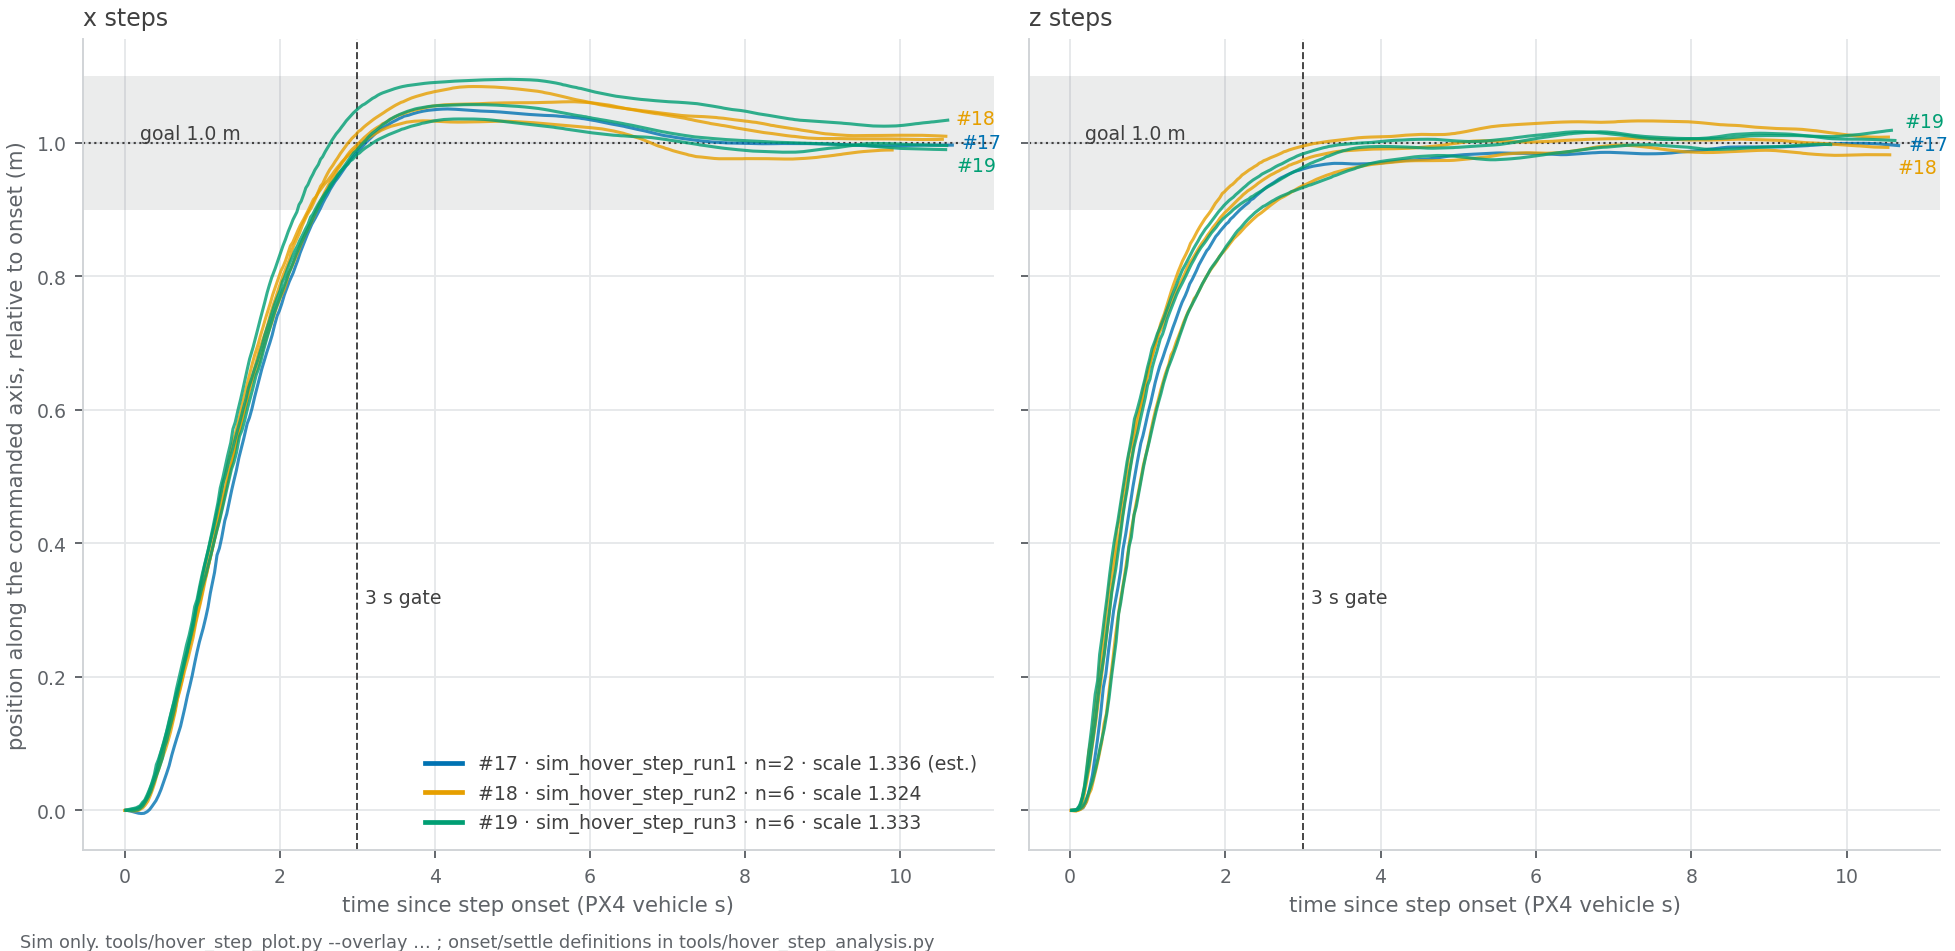
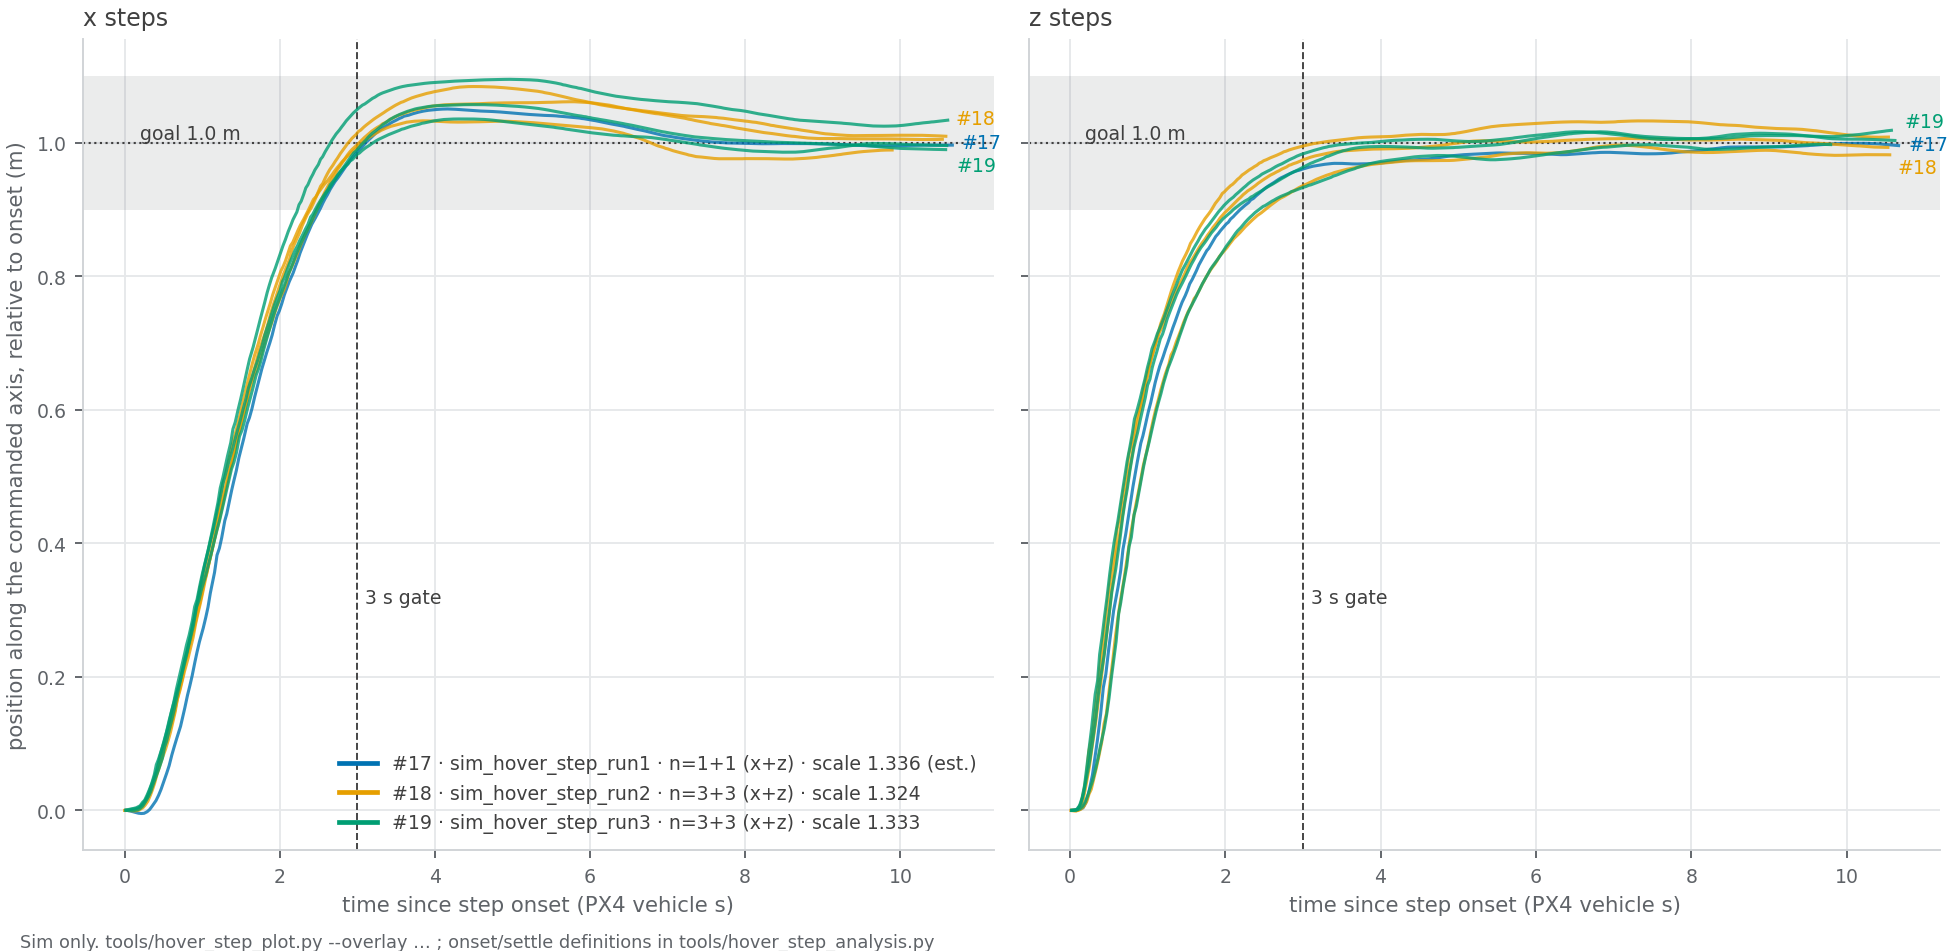
docs: final-review fixes — LEDGER Fix-1 bullets under table 1 (+NEAR-826), kill test → NEAR-823, RUNBOOK step 8 hover/disarm cue, _ours configs in both hazard boxes, TROUBLESHOOTING/RUNBOOK/PX4 audit pointers, overlay legend n per axis

Changed region(s): [[0.1872, 0.7928, 0.468, 0.8843], [0.468, 0.7928, 0.4992, 0.8233]]

diff --git a/tools/hover_step_plot.py b/tools/hover_step_plot.py
@@ -244,7 +244,7 @@ def overlay(runs, scales: dict[str, float], labels: dict[str, str], out: pathlib
         for axis, item in last.items():                  # one direct label per run per axis (its last step's last sample)
             ends.setdefault(axis, []).append(item)
         est = " (est.)" if name in estimated else ""
-        text = f"{label} · {name} · n={len(evs)} · scale {scales[name]:.3f}{est}"
+        text = f"{label} · {name} · n={"+".join(str(sum(1 for ax, _ in evs if ax == k)) for k in "xz")} (x+z) · scale {scales[name]:.3f}{est}"
         handles.append(plt.Line2D([], [], color=colour, lw=2, label=text))
     fig.canvas.draw()                                    # axes size is final: place the direct labels, then spread them apart
     for axis, items in ends.items():                     # one label per run at its last sample, >= LABEL_GAP_PT apart

diff --git a/docs/record/LEDGER.md b/docs/record/LEDGER.md
@@ -30,6 +30,22 @@ RECORD · SIM + REAL — append-only test ledger. Rows are never rewritten or dr
 
 Notes: the Fix 1 detail (the landing path as it is now — `land_settle_s`, `SwarmCommander.landing_done()`, the disarm retry `land_disarm_step()` with `land_disarm_retry_s` 1 s × `land_disarm_retries` 5; sim closed by #13; the real `_ours` configs set `land_settle_s` 0.0 and the retry is inert there because `px4_interface.disarm()` returns true on send; re-observe at NEAR-826 and confirm DISARMED in QGC, iron rule 2) is copied from the old MILESTONES.md "Sim debt" section as the three bullets below this line.
 
+- `land_settle_s` (live parameter; `SwarmCommander.landing_done()`): after z ≤
+  `land_complete_altitude_m` the drone stays LANDING and keeps commanding the descent for the
+  settle time, then DISARM → IDLE; a bounce restarts the timer. Trigger: in sim the instant
+  disarm was DENIED and the offboard timeout left all three drones armed in failsafe hover
+  (#5). Unit tests `test/test_landing_settle.py`.
+- Disarm retry (2026-10-20, `SwarmCommander.land_disarm_step()`): a rejected DISARM is resent
+  every `land_disarm_retry_s` (1 s) up to `land_disarm_retries` (5) times while the descent is
+  still commanded (#8: settle alone was accepted on 1 of 3). The sim refusals came from
+  PX4's land detector seeing the body rock on the floor (#9) → sim airframe
+  `LNDMC_ROT_MAX` 300. Closed in sim by #13 (DISARM accepted first time ×3).
+- **Real drones:** the `_ours` configs set `land_settle_s: 0.0`, so the landing is the one flown
+  2026-09-03; CMU's shipped real configs lack the key and inherit 2.0 → fly the `_ours` files.
+  The retry is inert on real: `px4_interface.disarm()` returns true on send, and a normal
+  disarm (no force code) is refused by PX4 unless landed — nothing can drop a flying drone.
+  Re-observe at M3 (NEAR-826) (landing sub-test) and confirm DISARMED in QGC (iron rule 2).
+
 ## Table 2 · Observed on the previous software (archived)
 
 Branch `archive/airstack-starling-max2` (`daniel/diffaero_ground_control`), 2026-07-20 → 2026-09-03. The archive's own milestone labels are not carried (they would collide with Linear's M2–M7). Desk and network rows carry no evidence file, only the archived ledger number; the flight rows A17–A21 cite the folder `~/flight_logs/2026-09-01/` (four ulogs, no per-row mapping known). No curve is drawn from these logs.
@@ -57,19 +73,3 @@ Branch `archive/airstack-starling-max2` (`daniel/diffaero_ground_control`), 2026
 | A19 | REAL: multi-goal square (`goal_tracking.yaml`), 2 laps, all corners tracked (videos in `videos/`) | 2026-09-03 | `~/flight_logs/2026-09-01/` | NEAR-829 |
 | A20 | REAL: deliberate in-flight geofence breach → freeze-hover (armed); recovery `land` → `reset_fence` → `takeoff` | 2026-09-03 | `~/flight_logs/2026-09-01/` | NEAR-830 |
 | A21 | REAL: landing auto-disarm reliable at `land_speed_mps` 0.6; 0.3 bounced and left the drone armed on the ground | 2026-09-03 | `~/flight_logs/2026-09-01/` | NEAR-826 |
-
-- `land_settle_s` (live parameter; `SwarmCommander.landing_done()`): after z ≤
-  `land_complete_altitude_m` the drone stays LANDING and keeps commanding the descent for the
-  settle time, then DISARM → IDLE; a bounce restarts the timer. Trigger: in sim the instant
-  disarm was DENIED and the offboard timeout left all three drones armed in failsafe hover
-  (#5). Unit tests `test/test_landing_settle.py`.
-- Disarm retry (2026-10-20, `SwarmCommander.land_disarm_step()`): a rejected DISARM is resent
-  every `land_disarm_retry_s` (1 s) up to `land_disarm_retries` (5) times while the descent is
-  still commanded (#8: settle alone was accepted on 1 of 3). The sim refusals came from
-  PX4's land detector seeing the body rock on the floor (#9) → sim airframe
-  `LNDMC_ROT_MAX` 300. Closed in sim by #13 (DISARM accepted first time ×3).
-- **Real drones:** the `_ours` configs set `land_settle_s: 0.0`, so the landing is the one flown
-  2026-09-03; CMU's shipped real configs lack the key and inherit 2.0 → fly the `_ours` files.
-  The retry is inert on real: `px4_interface.disarm()` returns true on send, and a normal
-  disarm (no force code) is refused by PX4 unless landed — nothing can drop a flying drone.
-  Re-observe at M3 (landing sub-test) and confirm DISARMED in QGC (iron rule 2).

diff --git a/docs/RUNBOOK.md b/docs/RUNBOOK.md
@@ -166,7 +166,7 @@ fallback and the throw-away shell: [§ Sim launch variants](#sim-launch-variants
 
 ## B · REAL DRONE session (mocap room) — ⏳ STE on this branch
 
-> **WORLD: REAL DRONE — [PREFLIGHT.md](PREFLIGHT.md) gates every takeoff.** Gates before the next real flight: [MILESTONES.md](MILESTONES.md) "Before the next real flight" (MAV_SYS_ID 1 vs 2, one watchdog only, [PX4_MSGS_AUDIT.md](PX4_MSGS_AUDIT.md) ACK audit, props-off kill test, NEAR-826 landing test, mocap chain after the camera upgrade).
+> **WORLD: REAL DRONE — [PREFLIGHT.md](PREFLIGHT.md) gates every takeoff.** Gates before the next real flight: [MILESTONES.md](MILESTONES.md) "Before the next real flight" (MAV_SYS_ID 1 vs 2, one watchdog only, [PX4_MSGS_AUDIT.md](PX4_MSGS_AUDIT.md) ACK audit, NEAR-826 landing test); props-off kill test: [PREFLIGHT.md](PREFLIGHT.md) / [DRONE_SETUP.md](DRONE_SETUP.md) §8 (NEAR-823); mocap chain after the camera upgrade: [projects/HTX-R2.md](projects/HTX-R2.md) R1.
 >
 > **Step 0 — which world am I in:** Isaac container NOT running (`docker ps | grep isaac` → empty), no `mavros_node` and no `svg_teleop` in `ros2 node list`, and the `px4_interface … target_system=N` startup line present. ⚠ Never start Isaac Sim during a real session: the sim publishes on the real drone's topic names.
 
@@ -318,7 +318,7 @@ ros2 service call /swarm_commander/hold    std_srvs/srv/Trigger   # PANIC: brake
 ros2 service call /swarm_commander/land    std_srvs/srv/Trigger   # descend + disarm
 ```
 In hover, confirm the setpoint stream from a pane: `ros2 topic hz /drone_1/fmu/trajectory_command` ≈ 20 Hz (the panel's `Cmd stream` column watches velocity topics only and reads `--` on a real drone — [BASESTATION.md](BASESTATION.md) §6).
-`start` begins the scenario and is **REQUIRED** before goals or teleop respond.
+`start` begins the scenario and is **REQUIRED** before goals or teleop respond. Hover about 20 s before `land`; at touchdown on this software the Interface column shows `disarm ✗` and QGC one red "Disarming denied" until the landing test (NEAR-826) is re-observed — expected, not a fault.
 Watch the panel's command log: `sent → accepted → ✓ confirmed`, and the Interface column:
 `request offboard ✓ · arm ✓`. **`DENIED`** = PX4 refused (preflight) · **no entry at all** =
 `target_system` mismatch — fix before retrying. Goal/waypoint flights → **§C**. Gamepad →

diff --git a/docs/TROUBLESHOOTING.md b/docs/TROUBLESHOOTING.md
@@ -136,7 +136,7 @@ mistake comes first.
 | "Battery unhealthy", won't arm | SITL battery drained — restart the Isaac spawn script (Isaac Sim tab) |
 | Continuous `[timesync]` warnings | sim below real-time; reduce load |
 | No camera / `add_rtx_lidar_subgraph` import error at launch | the Pegasus submodule renamed the lidar/camera APIs; only `ENABLE_LIDAR`/`ENABLE_CAMERA` runs are affected — run without them, or update the launch script's lazy imports |
-| `ENABLE_CAMERA=true` but the robot container sees no `/clock` or camera topics (isaac-sim does) | DDS never crosses the isaac docker network; MAVROS (UDP) does ([diagram](ARCHITECTURE.md#sim-session-anatomy)). Use `localisation/docker/run.sh`. Both at once: [record/LEDGER.md](record/LEDGER.md) note under table 1 |
+| `ENABLE_CAMERA=true` but the robot container sees no `/clock` or camera topics (isaac-sim does) | DDS never crosses the isaac docker network; MAVROS (UDP) does ([diagram](ARCHITECTURE.md#sim-session-anatomy)). Use `localisation/docker/run.sh`. Both at once: [projects/HTX-R1.md](projects/HTX-R1.md) "Sim debt" (row 3) |
 | Stereo VO pose jumps 5–10 m whenever drone_1 faces the arena edge (sky and grid in view) | The flat default world starves the tracker. Launch with `ENV_USD` (construction site): [site README](../localisation/scenes/construction_site/README.md) |
 | VO odometry / TF flips between two poses in SLAM Studio | Two `cuvslam_stereo_node` instances (one started by hand beside `slam_up.sh`). `localisation/scripts/slam_status.sh`, then `slam_down.sh` → `slam_up.sh` |
 | `ENV_USD` set but the world loads flat or empty | The world files are laptop-only and not built here: run `localisation/scenes/construction_site/install.sh` ([site README](../localisation/scenes/construction_site/README.md)) |

diff --git a/docs/projects/HTX-R2.md b/docs/projects/HTX-R2.md
@@ -9,7 +9,7 @@ Question: Does the same software fly real Starling 2 Max drones safely with moti
 Hazards the pilot assumes until the named issue re-earns them (iron rules in [PREFLIGHT.md](../PREFLIGHT.md)):
 
 1. Software is blind to PX4 arming; the command-ACK message is unaudited against PX4 v1.14 — [PX4_MSGS_AUDIT.md](../PX4_MSGS_AUDIT.md), re-run at NEAR-821. Fly with QGC visible.
-2. `land_speed_mps` must stay 0.6 — 0.3 left the drone armed on the ground ([A21](../record/LEDGER.md#table-2--observed-on-the-previous-software-archived)); the landing is re-earned at NEAR-826.
+2. fly `_ours` configs (shipped real ones carry 0.3); `land_speed_mps` must stay 0.6 — 0.3 left the drone armed on the ground ([A21](../record/LEDGER.md#table-2--observed-on-the-previous-software-archived)); the landing is re-earned at NEAR-826.
 3. Drone ID must equal the controller target (`MAV_SYS_ID` = `target_system`; no ACK at all = mismatch) — NEAR-819; exactly one uXRCE watchdog on the drone — NEAR-820.
 4. After `voxl_setup_real_drone.sh`: reboot, never `systemctl restart voxl-px4` — NEAR-818.
 5. RC takeover is MANUAL or KILL only: setpoints leak into POSCTL/ALTCTL (confirmed in the code 2026-10-29, accepted; iron rule 1), and the commander stays non-IDLE after a takeover (`land` once; iron rule 3). No issue of their own; re-observed at NEAR-825 ([PX4_MSGS_AUDIT.md](../PX4_MSGS_AUDIT.md)).

diff --git a/docs/DRONE_SETUP.md b/docs/DRONE_SETUP.md
@@ -118,7 +118,7 @@ still has the old one
 - [ ] Bind the transmitter to the drone's receiver (hardware-specific).
 - [ ] Calibrate sticks: QGC → Vehicle Setup → Radio.
 - [ ] Confirm the safety params (loaded in §5, re-check): `RC_MAP_KILL_SW=8`, `COM_RC_OVERRIDE=1`, `COM_OBL_RC_ACT=1` — CONFIG.md §PX4 params.
-- [ ] **Kill ground test — props OFF, drone strapped down:** arm via a software `takeoff`, flip the kill switch, motors must cut instantly. On this branch, also watch the laptop's `px4_interface` log: `arm` must get an `ACCEPTED` ack (no ack = `target_system` mismatch, §4) — NEAR-825 ([projects/HTX-R2.md](projects/HTX-R2.md)).
+- [ ] **Kill ground test — props OFF, drone strapped down:** arm via a software `takeoff`, flip the kill switch, motors must cut instantly. On this branch, also watch the laptop's `px4_interface` log: `arm` must get an `ACCEPTED` ack (no ack = `target_system` mismatch, §4) — NEAR-823 ([projects/HTX-R2.md](projects/HTX-R2.md)).
 - [ ] Repeat the kill ground test after ANY transmitter/receiver change **and after any AirStack branch change**, forever.
 - [ ] Brief every pilot: RC takeover = MANUAL or kill only, never POSCTL/ALTCTL — [projects/HTX-R2.md](projects/HTX-R2.md) "Carried over".
 

diff --git a/docs/MILESTONES.md b/docs/MILESTONES.md
@@ -9,7 +9,7 @@ Three Linear projects ([plan snapshot 2026-10-26](plans/2026-10-26-project-plan-
 Hazards the pilot assumes until the named issue re-earns them (detail: [HTX-R2.md](projects/HTX-R2.md)):
 
 1. Software is blind to PX4 arming; the command-ACK message is unaudited against PX4 v1.14 — [PX4_MSGS_AUDIT.md](PX4_MSGS_AUDIT.md), re-run at NEAR-821.
-2. `land_speed_mps` must stay 0.6 — 0.3 left the drone armed on the ground ([A21](record/LEDGER.md)); landing re-earned at NEAR-826.
+2. fly `_ours` configs (shipped real ones carry 0.3); `land_speed_mps` must stay 0.6 — 0.3 left the drone armed on the ground ([A21](record/LEDGER.md)); landing re-earned at NEAR-826.
 3. Drone ID must equal the controller target (`MAV_SYS_ID` = `target_system`; no ACK = mismatch) — NEAR-819; one uXRCE watchdog only — NEAR-820.
 4. After `voxl_setup_real_drone.sh`: reboot, never `systemctl restart voxl-px4` — NEAR-818.
 5. RC-takeover leak into POSCTL/ALTCTL confirmed in the current code 2026-10-29 and accepted: takeover = MANUAL or KILL ([HTX-R2.md](projects/HTX-R2.md)); `land` once after any takeover; re-observed at NEAR-825.

diff --git a/docs/PX4_MSGS_AUDIT.md b/docs/PX4_MSGS_AUDIT.md
@@ -70,7 +70,7 @@ arming visibility — both already mandated), and any future use of the onboard
 remains upgrading the drone to the voxl-px4 1.15 line. Worth asking CMU their exact voxl-px4
 build to fully close this.
 
-**Matters for:** M6 caution, not a blocker — fly with QGC visible + thumb on RC kill (already
+**Matters for:** first flight (NEAR-825) caution, not a blocker — fly with QGC visible + thumb on RC kill (already
 required); don't trust any software arming indication.
 
 ## Re-run method
